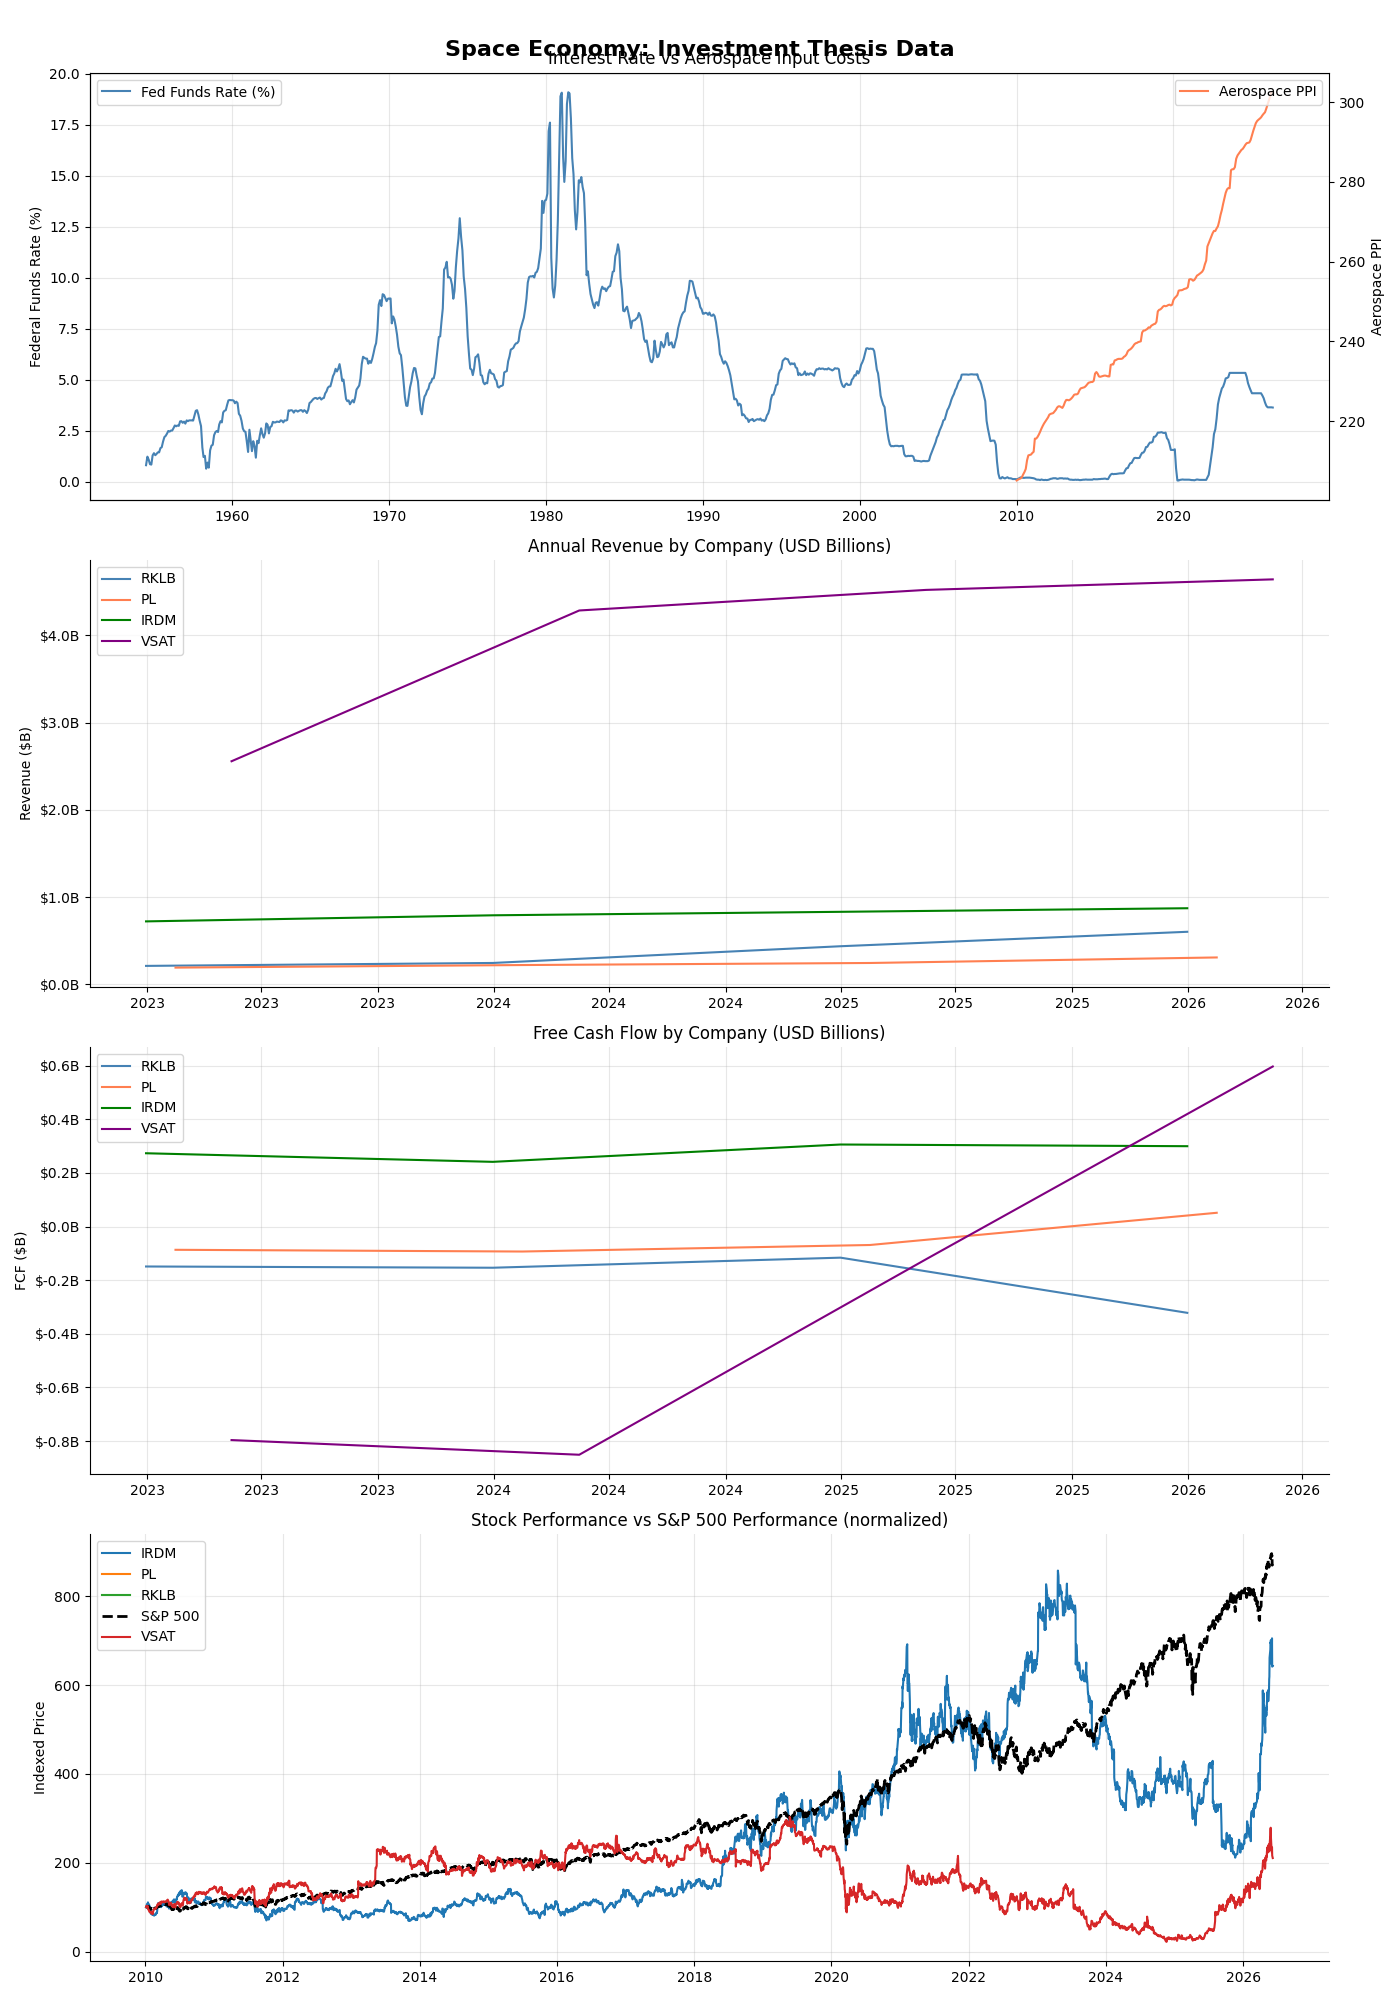
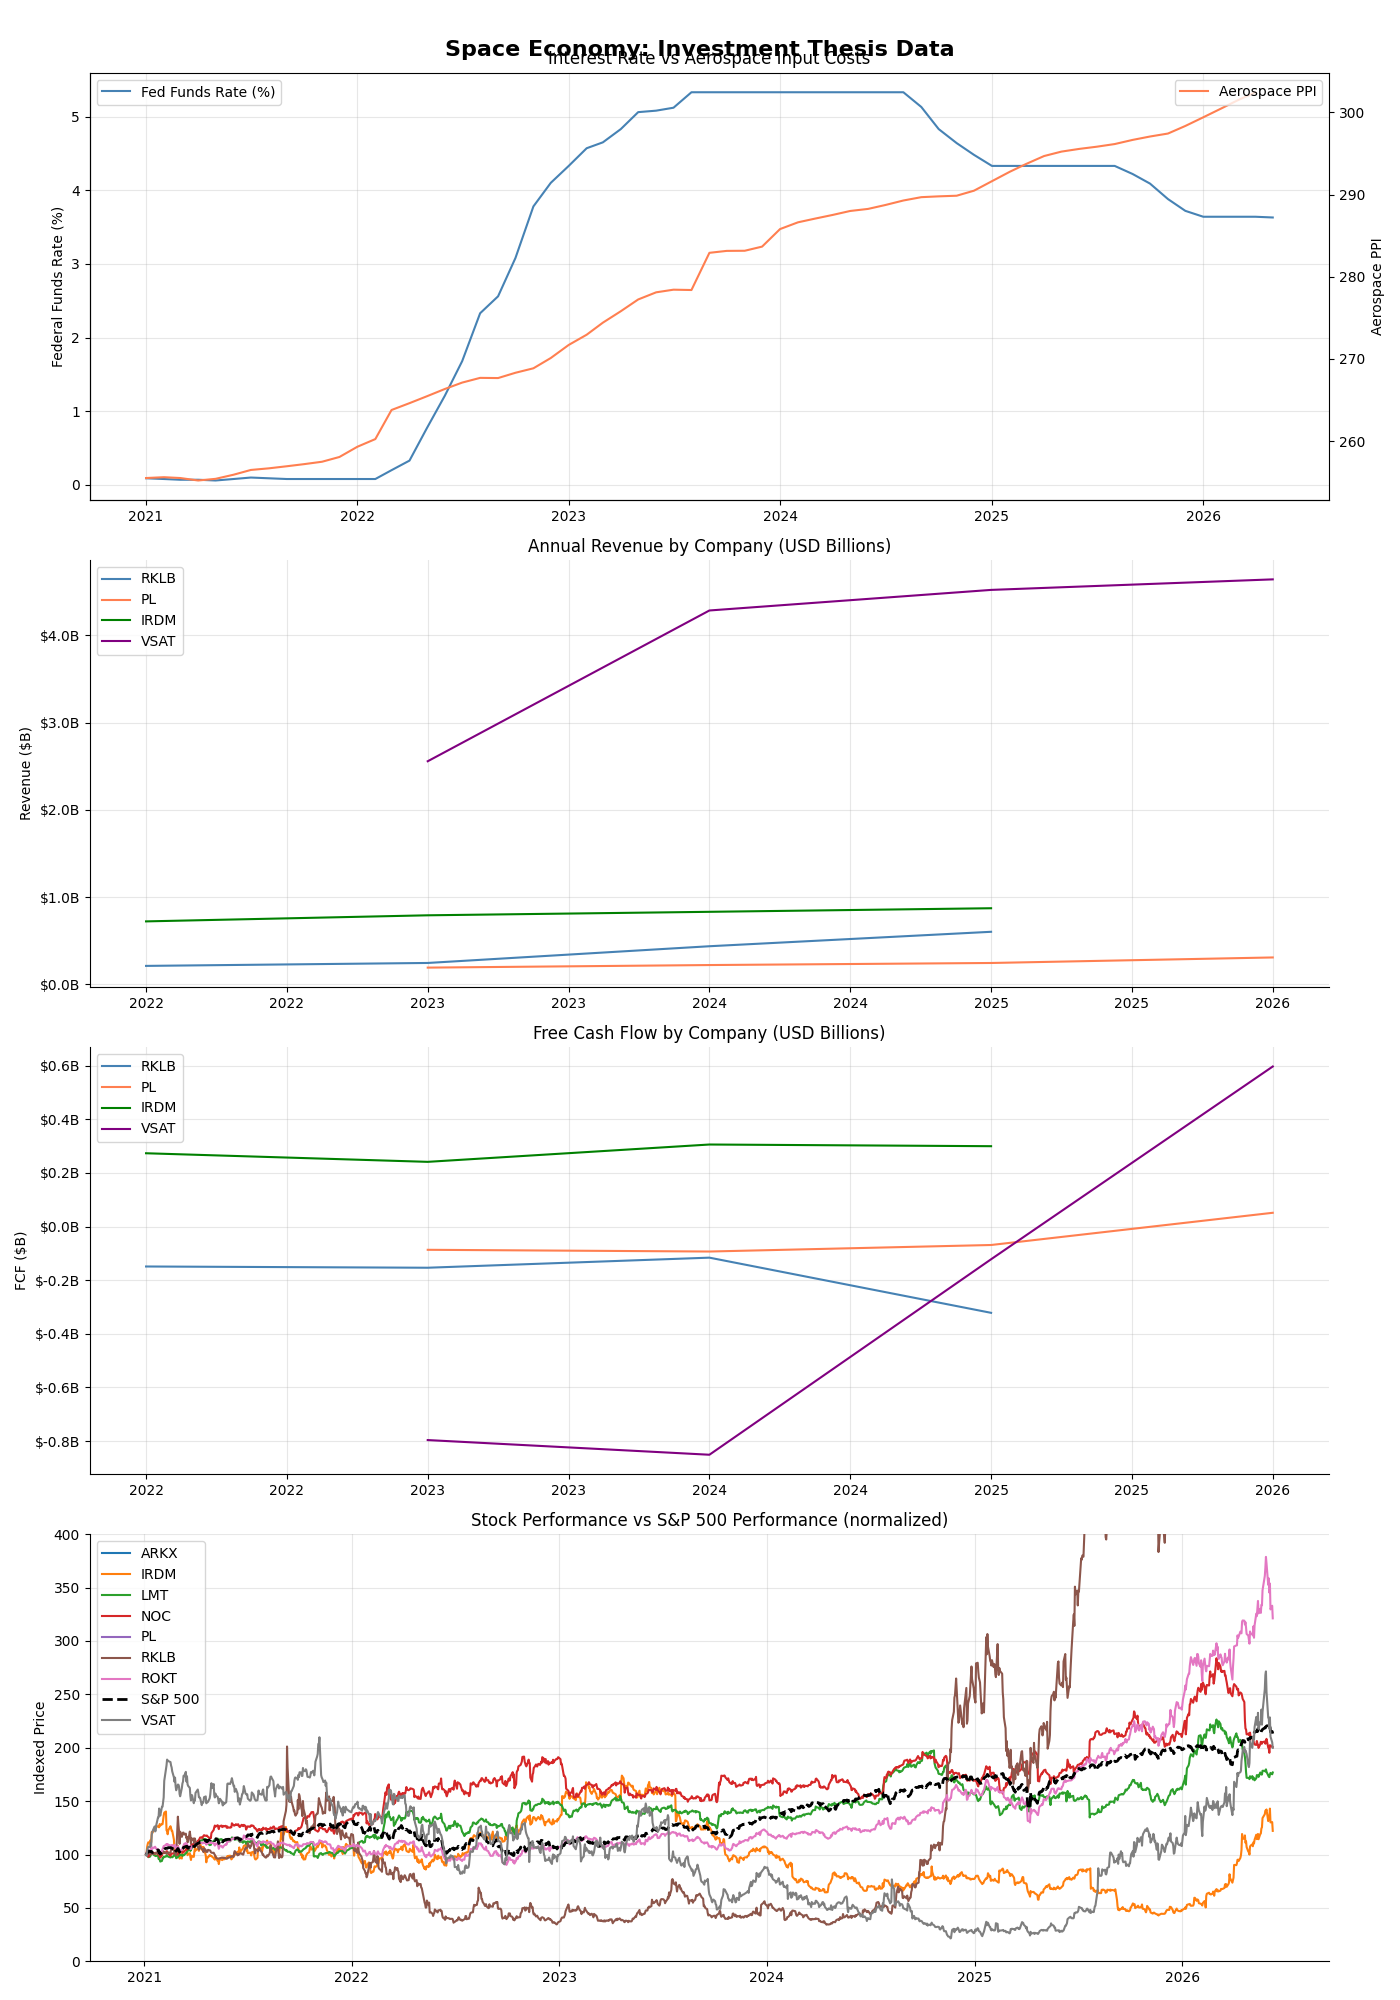
creating data loader, correlation, and debugging visualization

diff --git a/visualize.py b/visualize.py
@@ -1,34 +1,29 @@
-from fredapi import Fred
-import os
-from dotenv import load_dotenv
 import matplotlib.pyplot as plt
 import matplotlib.dates as mdates
-import yfinance as yf
 import pandas as pd
-import time
+from data_loader import load_all_data
 
-load_dotenv()
-fred = Fred(api_key = os.getenv('FRED_API_KEY'))
+data = load_all_data()
 
-fed_funds = fred.get_series('FEDFUNDS', observation_starts = '2010-01-01')
-aerospace_ppi = fred.get_series('PCU336411336411', observation_start='2010-01-01')
-defense = fred.get_series('FDEFX', observation_start='2010-01-01')
+fed_funds = data['fed_funds']
+prices = data['prices']
+financials = data['financials']
+aerospace_ppi = data['aerospace_ppi']
 
 tickers = ['RKLB', 'PL', 'IRDM', 'VSAT']
 revenues = {}
 fcfs = {}
 
 for t in tickers:
-    stock = yf.Ticker(t)
-    time.sleep(2)
+    rev = financials[t]['revenue'].copy()
+    fcf = financials[t]['fcf'].copy()
+    rev.index = rev.index.year
+    fcf.index = fcf.index.year
+    rev = rev[~rev.index.duplicated(keep = 'last')]
+    fcf = fcf[~fcf.index.duplicated(keep = 'last')]
+    revenues[t] = rev
+    fcfs[t] = fcf
 
-    financials = stock.financials
-    cashflow = stock.cashflow
-    revenues[t] = financials.loc['Total Revenue'].sort_index()
-    fcfs[t] = cashflow.loc['Free Cash Flow'].sort_index()
-
-
-prices = yf.download(tickers + ['SPY'], start = "2010-01-01")['Close']
 normalized = prices/prices.iloc[0] * 100
 
 fig, axes = plt.subplots(4, 1, figsize = (14, 20))
@@ -46,6 +41,8 @@ ax1b.set_ylabel('Aerospace PPI')
 ax1.legend(loc = 'upper left')
 ax1b.legend(loc = 'upper right')
 
+#Rates rose but input cost kept rising, rising costs and rates squeezed cos from both sides
+
 ##revenue
 ax2 = axes[1]
 colors = ['steelblue', 'coral', 'green', 'purple']
@@ -54,7 +51,12 @@ for(t, rev), color in zip(revenues.items(), colors):
 ax2.set_title("Annual Revenue by Company (USD Billions)")
 ax2.set_ylabel("Revenue ($B)")
 ax2.legend()
+ax2.xaxis.set_major_formatter(plt.FuncFormatter(lambda x, _: str(int(x))))
 ax2.yaxis.set_major_formatter(plt.FuncFormatter(lambda x, _: f'${x:.1f}B'))
+
+
+#VSAT dominates, RKLB grew fas from 0 while RDM shows steady stable growth
+# RKLB and PL are still small compared to legacy firms -> new space revenue base is still small 
 
 #Free Cash Flow
 ax3 = axes[2]
@@ -63,7 +65,11 @@ for(t, fcf), color in zip(fcfs.items(), colors):
 ax3.set_title("Free Cash Flow by Company (USD Billions)")
 ax3.set_ylabel("FCF ($B)")
 ax3.legend()
+ax3.xaxis.set_major_formatter(plt.FuncFormatter(lambda x, _: str(int(x))))
 ax3.yaxis.set_major_formatter(plt.FuncFormatter(lambda x, _: f'${x:.1f}B'))
+
+#IRDM is consistently positive, VSAT crashed then recovered RKLB is getting worse, PL just became positive
+#ONly one company is reliably cash flow positive
 
 #performance vs s and p 500
 ax4 = axes[3]
@@ -75,11 +81,19 @@ for col in normalized.columns:
         ax4.plot(normalized.index, normalized[col], label = col)
 ax4.set_title("Stock Performance vs S&P 500 Performance (normalized)")
 ax4.set_ylabel('Indexed Price')
+ax4.set_ylim(0, 400)
 ax4.legend()
 
+#Most underperformedperformed SPY
+
 #Formatting
-for ax in axes:
+for ax in [ax1, ax4]:
     ax.xaxis.set_major_formatter(mdates.DateFormatter('%Y'))
+
+for ax in [ax2, ax3]:
+    ax.xaxis.set_major_formatter(plt.FuncFormatter(lambda x, _: str(int(x))))
+
+for ax in axes:
     ax.grid(True, alpha=0.3)
     ax.spines['top'].set_visible(False)
     ax.spines['right'].set_visible(False)

diff --git a/data_loader.py b/data_loader.py
@@ -1,0 +1,39 @@
+from fredapi import Fred
+import os
+from dotenv import load_dotenv
+import matplotlib.pyplot as plt
+import matplotlib.dates as mdates
+import yfinance as yf
+import pandas as pd
+import time
+
+load_dotenv()
+
+def load_all_data():
+    #Fred
+    fred = Fred(api_key = os.getenv('FRED_API_KEY'))
+    fed_funds = fred.get_series('FEDFUNDS', observation_start = '2021-01-01')
+    aerospace_ppi = fred.get_series('PCU336411336411', observation_start = '2021-01-01')
+    defense = fred.get_series('FDEFX', observation_start = '2021-01-01')
+
+    #Stock prices
+    space_tickers = ['RKLB', 'PL', 'IRDM', 'VSAT', 'LMT', 'NOC', 'ARKX', 'ROKT']
+    prices = yf.download(space_tickers + ['SPY'], start = '2021-01-01')['Close']
+
+    ##Company Financials
+    financials = {}
+    for t in ['RKLB', 'PL', 'IRDM', 'VSAT']:
+        stock = yf.Ticker(t)
+        financials[t] = {
+            'revenue': stock.financials.loc['Total Revenue'].sort_index(),
+            'gross_profit': stock.financials.loc['Gross Profit'].sort_index(),
+            'fcf': stock.cashflow.loc['Free Cash Flow'].sort_index()
+        }
+
+    return{
+        'fed_funds': fed_funds,
+        'aerospace_ppi' : aerospace_ppi,
+        'defense': defense,
+        'prices': prices,
+        'financials': financials
+    }

diff --git a/correlation.py b/correlation.py
@@ -1,0 +1,23 @@
+import pandas as pd
+import numpy as mp
+import matplotlib.pyplot as plt
+from fredapi import Fred
+import yfinance as yf
+import os
+from dotenv import load_dotenv
+import time
+
+load_dotenv()
+fred = Fred(api_key = os.getenv('FRED_API_KEY'))
+
+fed_funds = fred.get_series('FEDFUNDS', observation_start = '2010-01-01')
+fed_funds_monthly = fed_funds.resample('M').last()
+fed_funds_monthly.index = pd.DatetimeIndex(fed_funds_monthly.index.to_period('M').to_timestamp().values)
+
+tickers = ['RKLB', 'PL', 'IRDM', 'VSAT']
+
+prices = yf.download(tickers, start = "2021-01-01")['Close']
+print(prices)
+normalized = prices/prices.iloc[0] * 100
+normalized_monthly = normalized.resample('M').last()
+normalized_monthly.index = pd.DatetimeIndex(normalized_monthly.index.to_period('M').to_timestamp().values)
